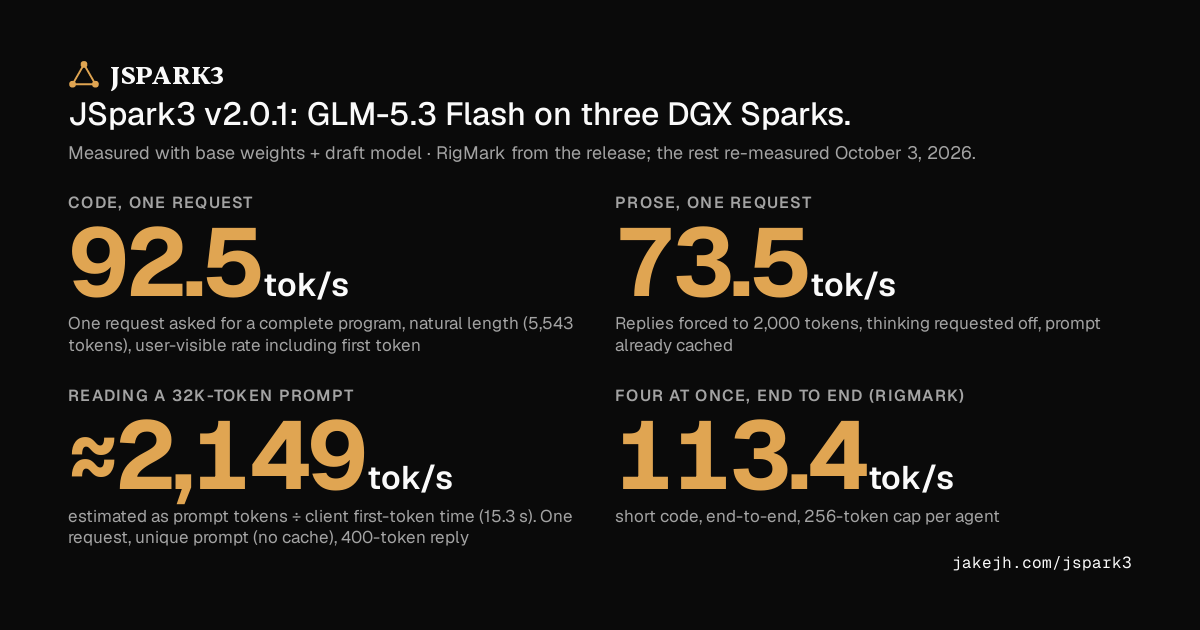
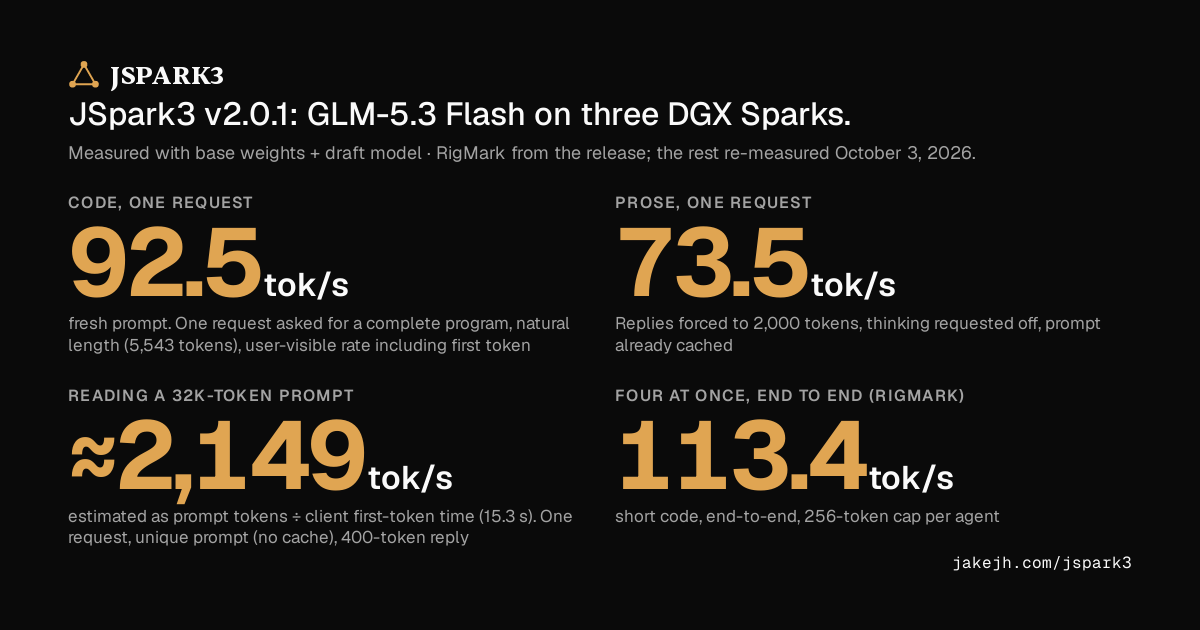
fix(jspark3): name every hero rate's prompt, describe only figures that have one
The complete program's 92.5 tok/s was measured on a fresh prompt: the hero
tile, the hub card, the lead figure, the Every measured set row and the share
card say so.

The page's description, link previews and JSON-LD give each figure with its
prompt's cache status: "Code, one request, fresh prompt", "Prose, one
request, prompt cached" and "Reading a 32K-token prompt, fresh". A figure
whose status is not known, the release's RigMark tile, is left out of the
description rather than listed bare; it stays on the page and the card.

Changed region(s): [[0.0617, 0.4825, 0.4933, 0.573]]

diff --git a/app/(site)/jspark3/v2/remeasured.test.tsx b/app/(site)/jspark3/v2/remeasured.test.tsx
@@ -105,6 +105,19 @@ test('the round-once audit: withdrawn figures stay off, timings say fresh or cac
   // Row 4 was measured only with the prompt already cached: its label says so wherever it shows.
   const cached = 'Replies forced to 2,000 tokens, thinking requested off, prompt already cached';
   for (const match of copy.matchAll(/Replies forced to 2,000 tokens, thinking requested off/g)) assert.equal(copy.slice(match.index, match.index + cached.length), cached);
+  // Every rate names its prompt: 92.5 (row 2) was a fresh prompt, 73.5 (rows 4 and 5) a cached one, here, in the
+  // hero and the hub card, and in the page's description.
+  const { default: GlmFactsPage } = await import('./GlmFactsPage');
+  const { default: HubPage } = await import('./HubPage');
+  const hero = renderToStaticMarkup(React.createElement(GlmFactsPage)).match(/<div class="glm-tiles">[\s\S]*?<p class="glm-tiles-line">[\s\S]*?<\/p><\/div>/)?.[0] ?? '';
+  const card = renderToStaticMarkup(React.createElement(HubPage)).match(/<span class="spark-hub-figures" data-figure="facts">[\s\S]*?<span class="spark-hub-release-action">/)?.[0] ?? '';
+  const rates = `${copy} ${text(hero)} ${text(card)}`;
+  for (const [figure, status] of [['92.5', /fresh prompt/], ['73.5', /cached/]] as const) {
+    const near = [...rates.matchAll(new RegExp(figure.replace('.', '\\.'), 'g'))].map(match => rates.slice(Math.max(0, match.index - 120), match.index + 200));
+    assert.ok(near.length >= 4, `${figure} shows ${near.length} times`);
+    for (const line of near) assert.match(line, status, line);
+  }
+  assert.ok(HERO_SUMMARY?.includes('Code, one request, fresh prompt: 92.5 tok/s') && HERO_SUMMARY.includes('Prose, one request, prompt cached: 73.5 tok/s') && HERO_SUMMARY.includes('Reading a 32K-token prompt, fresh: ≈2,149 tok/s'), HERO_SUMMARY ?? 'no description');
   // Row 5's cached-prompt rates show only beside the fresh ones, saying so.
   for (const match of copy.matchAll(/108\.5/g)) assert.match(copy.slice(match.index - 40, match.index), /already cached: code $/, 'a cached rate shows alone');
   // The cached-prompt time never shows alone, and the short replies' first token always says it is a fresh prompt.
@@ -240,7 +253,7 @@ test('the GLM page\'s description and link previews give the hero\'s figures wit
   const React = await import('react');
   Object.assign(globalThis, { React });
   const { metadata } = await import('../glm/page');
-  const { HERO_MEASURED, HERO_SIGNATURE, REMEASURED_ON } = await import('./remeasured-figures');
+  const { DESCRIBED_FIGURES, DESCRIBED_MEASURED, HERO_FIGURES, HERO_TILES, REMEASURED_ON } = await import('./remeasured-figures');
   const synced = (await import('../glm-facts.json')).default as { facts: { headline?: { cites?: { value: string }[] } } };
   if (!REMEASURED_ON) return;
   const og = metadata.openGraph as { description?: string };
@@ -248,8 +261,11 @@ test('the GLM page\'s description and link previews give the hero\'s figures wit
   const description = String(metadata.description);
   assert.equal(og.description, description);
   assert.equal(twitter.description, description);
-  for (const figure of HERO_SIGNATURE) assert.ok(description.includes(figure), `the description does not give "${figure}"`);
-  assert.ok(HERO_MEASURED && description.endsWith(HERO_MEASURED), 'the description does not say what its figures were measured with');
+  // Every figure it gives names its prompt's cache status; one without a status is left out, never listed bare.
+  assert.equal(DESCRIBED_FIGURES.length, HERO_FIGURES.filter(figure => figure.prompt).length);
+  for (const figure of DESCRIBED_FIGURES) assert.ok(description.includes(figure) && /, (?:fresh|fresh prompt|prompt cached): /.test(figure), `the description does not give "${figure}"`);
+  for (const figure of [...HERO_FIGURES.filter(item => !item.prompt).map(item => item.value), ...HERO_TILES.map(tile => tile.value.slot.text)]) assert.ok(!description.includes(figure), `the description lists ${figure} without its cache status`);
+  assert.ok(DESCRIBED_MEASURED && description.endsWith(DESCRIBED_MEASURED), 'the description does not say what its figures were measured with');
   // The release headline's figures are for eight requests at once; previews show none of them.
   for (const cite of synced.facts.headline?.cites ?? []) assert.ok(!description.includes(cite.value), `the description gives the headline's ${cite.value}`);
   assert.ok(!/\b(?:eight|8)\b[^.]*\b(?:concurrent|requests|users|agents|streams)\b|\bc8\b/i.test(description), 'the description gives a figure for eight at once');

diff --git a/app/(site)/jspark3/v2/remeasured-figures.ts b/app/(site)/jspark3/v2/remeasured-figures.ts
@@ -39,7 +39,7 @@ export function resolve(figures: LeadFigure[], charts: RemeasuredChart[] = publi
  * A re-measured hero figure: its label, value and unit, captioned with its own line and the table's label, never
  * its group's condition, whose timings need their footnotes.
  */
-export type HeroFigure = { key: string; label: string; value: string; unit: string; caption: string };
+export type HeroFigure = { key: string; label: string; value: string; unit: string; caption: string; prompt?: string };
 
 /**
  * The GLM page's hero, which the hub's latest card and the share card show too. With the re-measurement it leads
@@ -47,18 +47,25 @@ export type HeroFigure = { key: string; label: string; value: string; unit: stri
  * it is the release's tiles (glm-facts.ts TILE_FIGURES) and line.
  */
 export const HERO_FIGURES: HeroFigure[] = (REMEASURED_ON ? resolve(HERO) : []).map(({ figure, chart, group, smallPrint }) => ({
-  key: `remeasured.${chart.id}.${group.key}`, label: figure.label, value: figure.value, unit: figure.unit, caption: [figure.line, smallPrint].filter(Boolean).join('. '),
+  key: `remeasured.${chart.id}.${group.key}`, label: figure.label, value: figure.value, unit: figure.unit, caption: [figure.line, smallPrint].filter(Boolean).join('. '), prompt: figure.prompt,
 }));
 export const HERO_TILES: TileFigure[] = HERO_FIGURES.length ? TILE_FIGURES.filter(tile => HERO_RELEASE_TILES.includes(tile.key)) : TILE_FIGURES;
 
+const WEIGHTS = 'base weights + draft model';
+
 /** What the re-measured hero was measured with, then when; the GLM page links the date to the section. */
 export const HERO_LINE = HERO_FIGURES.length
-  ? { lead: `base weights + draft model · ${HERO_TILES.length ? 'RigMark from the release; the rest ' : ''}`, measured: `re-measured ${REMEASURED_DATE}` }
+  ? { lead: `${WEIGHTS} · ${HERO_TILES.length ? 'RigMark from the release; the rest ' : ''}`, measured: `re-measured ${REMEASURED_DATE}` }
   : null;
 
-/** The hero's figures as a share card records them: a card is current only while they match. */
+const named = (figure: HeroFigure) => `${[figure.label, figure.prompt].filter(Boolean).join(', ')}: ${figure.value} ${figure.unit}`;
+
+/**
+ * The hero's figures as a share card records them, each with its prompt's cache status where it has one: a card is
+ * current only while they match.
+ */
 export const HERO_SIGNATURE: string[] = [
-  ...HERO_FIGURES.map(figure => `${figure.label}: ${figure.value} ${figure.unit}`),
+  ...HERO_FIGURES.map(named),
   ...HERO_TILES.map(tile => `${tile.label}: ${tile.value.slot.text} ${tile.unit}`),
 ];
 
@@ -66,10 +73,19 @@ export const HERO_SIGNATURE: string[] = [
 export const HERO_MEASURED: string | null = HERO_LINE ? `Measured with ${HERO_LINE.lead}${HERO_LINE.measured}.` : null;
 
 /**
- * The re-measured hero as the GLM page's description says it: each figure with its label, then what they were
- * measured with. Without the re-measurement there is none.
+ * The hero's figures the GLM page's description gives: only those whose prompt's cache status is known, each with
+ * its label and that status. A figure without one (the release's tiles) is left out, never listed bare.
  */
-export const HERO_SUMMARY: string | null = HERO_MEASURED ? `${HERO_SIGNATURE.join('. ')}. ${HERO_MEASURED}` : null;
+export const DESCRIBED_FIGURES: string[] = HERO_FIGURES.filter(figure => figure.prompt).map(named);
+
+/** What the described figures were measured with, as the description's last sentence. */
+export const DESCRIBED_MEASURED: string | null = HERO_LINE ? `Measured with ${WEIGHTS} · ${HERO_LINE.measured}.` : null;
+
+/**
+ * The re-measured hero as the GLM page's description says it: each described figure, then what they were measured
+ * with. Without the re-measurement, or a figure to describe, there is none.
+ */
+export const HERO_SUMMARY: string | null = DESCRIBED_MEASURED && DESCRIBED_FIGURES.length ? `${DESCRIBED_FIGURES.join('. ')}. ${DESCRIBED_MEASURED}` : null;
 
 /**
  * The share card, while it was rendered from these facts (glm-facts.ts SOCIAL_IMAGE) and shows these hero

diff --git a/app/(site)/jspark3/v2/remeasured-data.ts b/app/(site)/jspark3/v2/remeasured-data.ts
@@ -69,7 +69,11 @@ export type RemeasuredChart = {
  * A large figure above the charts, from one group of one chart: a bar's value or a figure its condition gives.
  * It carries that group's condition (or its own line), label and footnote.
  */
-export type LeadFigure = { chart: string; group: string; label: string; value: string; unit: string; line?: string };
+export type LeadFigure = {
+  chart: string; group: string; label: string; value: string; unit: string; line?: string;
+  /** The prompt's cache status, as the page's description names it beside the figure. */
+  prompt?: 'fresh' | 'fresh prompt' | 'prompt cached';
+};
 
 export const PLACEHOLDER = false;
 export const DATE = '2026-10-03';
@@ -209,7 +213,7 @@ export const CHARTS: RemeasuredChart[] = [
 
 /** Above the charts: what one user feels first. */
 export const LEAD: LeadFigure[] = [
-  { chart: 'reply-one', group: 'natural-code', label: 'A complete program, one request', value: '92.5', unit: 'tok/s', line: 'user-visible, from send to the last token' },
+  { chart: 'reply-one', group: 'natural-code', label: 'A complete program, one request', value: '92.5', unit: 'tok/s', line: 'user-visible, from send to the last token, fresh prompt' },
   { chart: 'reply-one', group: 'short', label: 'First token on a short reply', value: '0.31', unit: 's', line: 'code, on a fresh prompt; 0.25 s for prose; 0.07\u20110.08 s when the prompt is already cached' },
   { chart: 'long-prompt', group: '32k', label: 'First token after a 32K-token prompt', value: '15.3', unit: 's' },
 ];
@@ -219,9 +223,9 @@ export const LEAD: LeadFigure[] = [
  * release's tiles named in HERO_RELEASE_TILES follow, until a re-measured figure replaces them.
  */
 export const HERO: LeadFigure[] = [
-  { chart: 'reply-one', group: 'natural-code', label: 'Code, one request', value: '92.5', unit: 'tok/s' },
-  { chart: 'reply-one', group: 'long-prose', label: 'Prose, one request', value: '73.5', unit: 'tok/s' },
-  { chart: 'long-prompt', group: '32k', label: 'Reading a 32K-token prompt', value: '≈2,149', unit: 'tok/s', line: 'estimated as prompt tokens ÷ client first-token time (15.3 s)' },
+  { chart: 'reply-one', group: 'natural-code', label: 'Code, one request', value: '92.5', unit: 'tok/s', line: 'fresh prompt', prompt: 'fresh prompt' },
+  { chart: 'reply-one', group: 'long-prose', label: 'Prose, one request', value: '73.5', unit: 'tok/s', prompt: 'prompt cached' },
+  { chart: 'long-prompt', group: '32k', label: 'Reading a 32K-token prompt', value: '≈2,149', unit: 'tok/s', line: 'estimated as prompt tokens ÷ client first-token time (15.3 s)', prompt: 'fresh' },
 ];
 export const HERO_RELEASE_TILES = ['rigmark.c4'];
 
@@ -244,7 +248,7 @@ export const SET_CHARTS: RemeasuredSetChart[] = [
     better: 'higher',
     methods: 'User-visible rate: reply tokens over the time from sending the request to its last token, so the wait for the first token counts.',
     rows: [
-      { key: 'natural-code', label: 'A complete program, natural length', from: { chart: 'reply-one', group: 'natural-code', bar: 'Code' } },
+      { key: 'natural-code', label: 'A complete program, natural length, fresh prompt', from: { chart: 'reply-one', group: 'natural-code', bar: 'Code' } },
       { key: 'short-code', label: 'Code, forced to 128 tokens, fresh prompt', from: { chart: 'reply-one', group: 'short', bar: 'Code' } },
       { key: 'short-prose', label: 'Prose, forced to 128 tokens, fresh prompt', from: { chart: 'reply-one', group: 'short', bar: 'Prose' } },
       { key: 'long-prose', label: 'Prose, forced to 2,000 tokens', from: { chart: 'reply-one', group: 'long-prose', bar: 'Prose' } },
